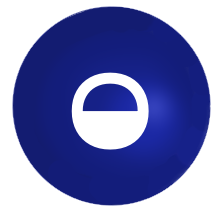
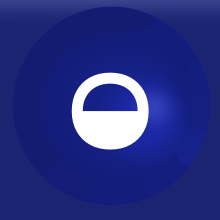
Add files via upload

diff --git a/milonerzy.py b/milonerzy.py
@@ -58,16 +58,16 @@ def informacje():
     kolorat2 = Label(extra_window, text ="koło ratunkowe, które elimunuje jedną złą odpowiedź", bg="#2c397f", highlightthickness=10, width=50,height=3, font=('Times New Roman', 20, 'bold')).place(x= 1000,y= 570)
     kolorat3 = Label(extra_window, text ="koło ratunkowe, które wskazuje poprawną odpowiedź", bg="#2c397f", highlightthickness=10, width=50, height=3, font=('Times New Roman', 20, 'bold')).place(x= 1000,y= 850)
 
-    image1= tkk.PhotoImage(file = "guzik-50na50.png")
-    kl1 = tkk.Label(extra_window, image=image1)
+    image1= tkk.PhotoImage(file = "guzik-50na502.png")
+    kl1 = tkk.Label(extra_window, image=image1, highlightthickness=0)
     kl1.place(x=700, y=250)
 
-    image2 = tkk.PhotoImage(file = "guzik-eliminacja1zlejodp.png")
-    kl2 = tkk.Label(extra_window,image=image2)
+    image2 = tkk.PhotoImage(file = "guzik-eliminacja1zlejodp2.png")
+    kl2 = tkk.Label(extra_window,image=image2, highlightthickness=0)
     kl2.place(x=700, y=525)
 
-    image3 = tkk.PhotoImage(file = "guzik-teldoprzyj.png")
-    kl3 = tkk.Label(extra_window, image=image3)
+    image3 = tkk.PhotoImage(file = "guzik-teldoprzyj2.png")
+    kl3 = tkk.Label(extra_window, image=image3, highlightthickness=0)
     kl3.place(x=700, y=800)
 
     extra_window.mainloop()
